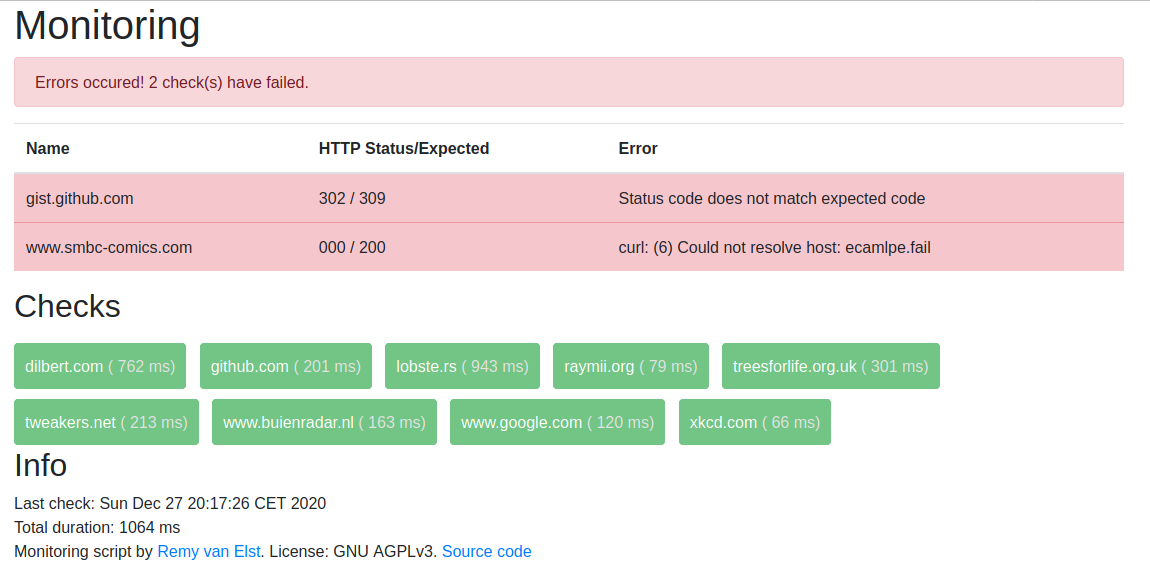
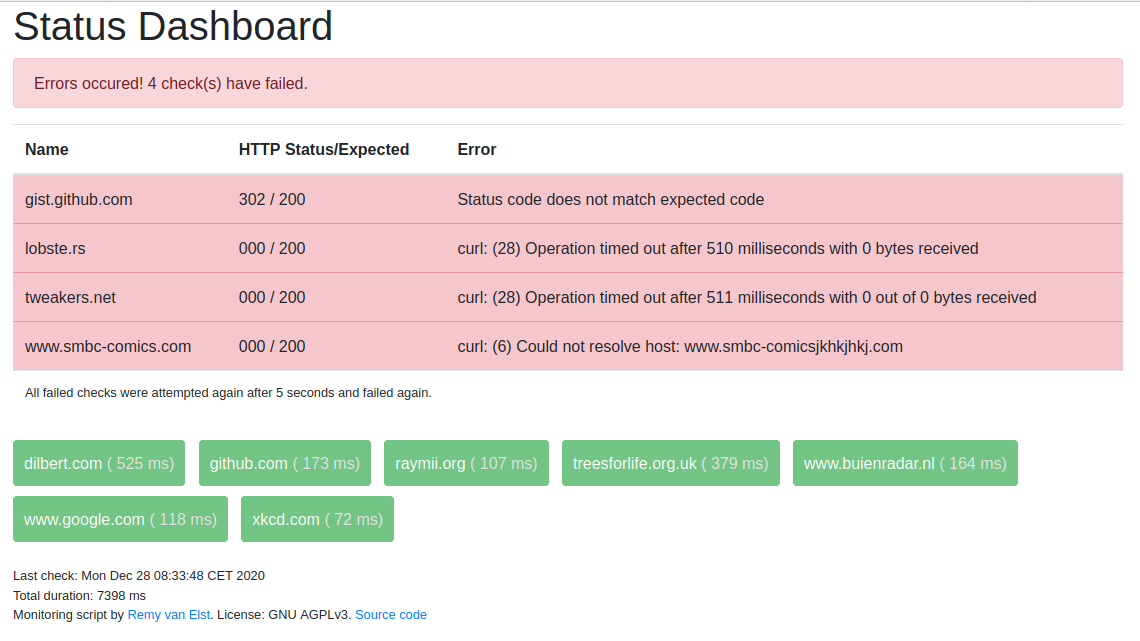
Implement flap detection

diff --git a/README.md b/README.md
@@ -2,8 +2,8 @@
 
 ![all is well image][1]
 
-HTTP(s) monitoring webpage via shell script. Parallel checking, thus very fast, only dependencies are
-curl and bash (version 4 or above). For all of you who want a simple script with a nice webpage to check
+HTTP(s) monitoring dashboard webpage via shell script. Parallel checking, thus very fast, only dependencies are
+curl, coreutils and bash (version 4 or above). For all of you who want a simple script with a nice webpage to check
 a few websites. Perfect for a wall mounted monitoring display and a Raspberry Pi.
 
 Installation and configuration is easy to do inside the script. It scales well, both on the checking side
@@ -13,9 +13,16 @@ You can set an expected status code and a max timeout per check, so if you consi
 it returns a 302 (redirect) or 401 (unauthorized) the script consider that okay. If the status code
 is not what is configured or there is a timeout or another error, the script considers the check failed.
 
+If a check fails, the script will check that specific one again after 5 seconds to prevent flapping. 
+
 Author: [Remy van Elst][6]
 
 [Website with more information][8]
+
+What this does not have:
+
+- Notifications
+- History
 
 ## Installation & Configuration
 
@@ -41,6 +48,13 @@ If you want to override the default status code for a check, this is the syntax:
 	statuscode[gist.github.com]=302
 
 The first part between the square brackets must match the `urls[]` part.
+
+Further global configuration options include:
+
+	maxConcurrentCurls=12 # How many curl checks to run at the same time
+	defaultTimeOut=10 # Max timeout of a check in seconds
+	flapRetry=5 # After how many seconds should we re-check any failed checks? (To prevent flapping)
+	title="Status Dashboard" # Title of the webpage
 
 Execute the script and send the output to a file in your webservers documentroot:
 
